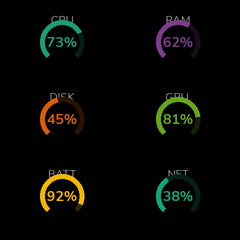
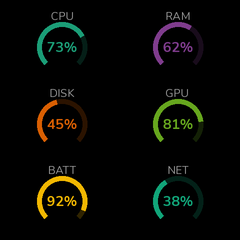
fix: ArcGauge compact — labels never overlap arc stroke
Previous Stack-based compact layout overlaid label-Column + arc-Column +
value-Column on the same cell rect with separate paddings. The arc's
top stroke (at y=12 with padding=12) bled through the label glyphs
(drawn at y=8-22 with padding=8) — visible in tiny 3x3 cells where
the small arc and small label competed for the same vertical band.

Refactor: use a Column with explicit bands (caption row + Flex(arc))
so the label and arc occupy DIFFERENT vertical zones. Cleaner reads
at every cell size, especially the previously-broken 3x3 grid.

The 1x1/2x2 sizes look essentially identical to before (the label was
always slightly above the arc-top stroke at those sizes — stroke was
just too small to notice). 3x3 cells now have clearly separated
caption-and-arc bands.

565 tests pass.

diff --git a/custom_components/geekmagic/widgets/component_helpers.py b/custom_components/geekmagic/widgets/component_helpers.py
@@ -427,34 +427,53 @@ class ArcGauge(Component):
         tree.render(ctx, x, y, width, height)
 
     def _build_compact(self) -> Component:
-        return Stack(
+        """Compact ArcGauge for small cells — caps label at the top, arc
+        with value inside taking the rest of the cell.
+
+        Uses a Column to ensure the label and the arc occupy DIFFERENT
+        vertical bands. The previous Stack-based layout overlaid all
+        three children on the full cell rect, which caused the arc's
+        top-stroke to bleed through the label glyphs in tiny 3x3 cells.
+        """
+        return Column(
+            gap=2,
+            padding=4,
+            align="stretch",
+            justify="start",
             children=[
-                Column(
-                    justify="start",
-                    align="center",
-                    padding=8,  # Top padding so the label isn't clipped
+                # Label band (caption tier).
+                Row(
                     children=[
                         Text(self.label.upper(), font="tiny", color=THEME_TEXT_SECONDARY),
                     ],
-                ),
-                Column(
                     justify="center",
                     align="center",
-                    padding=12,
-                    children=[
-                        Arc(
-                            percent=self.percent,
-                            color=self.color,
-                            background=self.background,
-                        ),
-                    ],
                 ),
-                Column(
-                    align="center",
-                    justify="center",
-                    children=[
-                        Text(self.value, font="medium", bold=True, color=self.color),
-                    ],
+                # Arc + value in the remaining space. Flex gives this
+                # Stack the leftover height; the arc auto-sizes to fit
+                # and the value stays centred inside.
+                Flex(
+                    Stack(
+                        children=[
+                            Arc(
+                                percent=self.percent,
+                                color=self.color,
+                                background=self.background,
+                            ),
+                            Column(
+                                align="center",
+                                justify="center",
+                                children=[
+                                    Text(
+                                        self.value,
+                                        font="medium",
+                                        bold=True,
+                                        color=self.color,
+                                    ),
+                                ],
+                            ),
+                        ],
+                    )
                 ),
             ],
         )